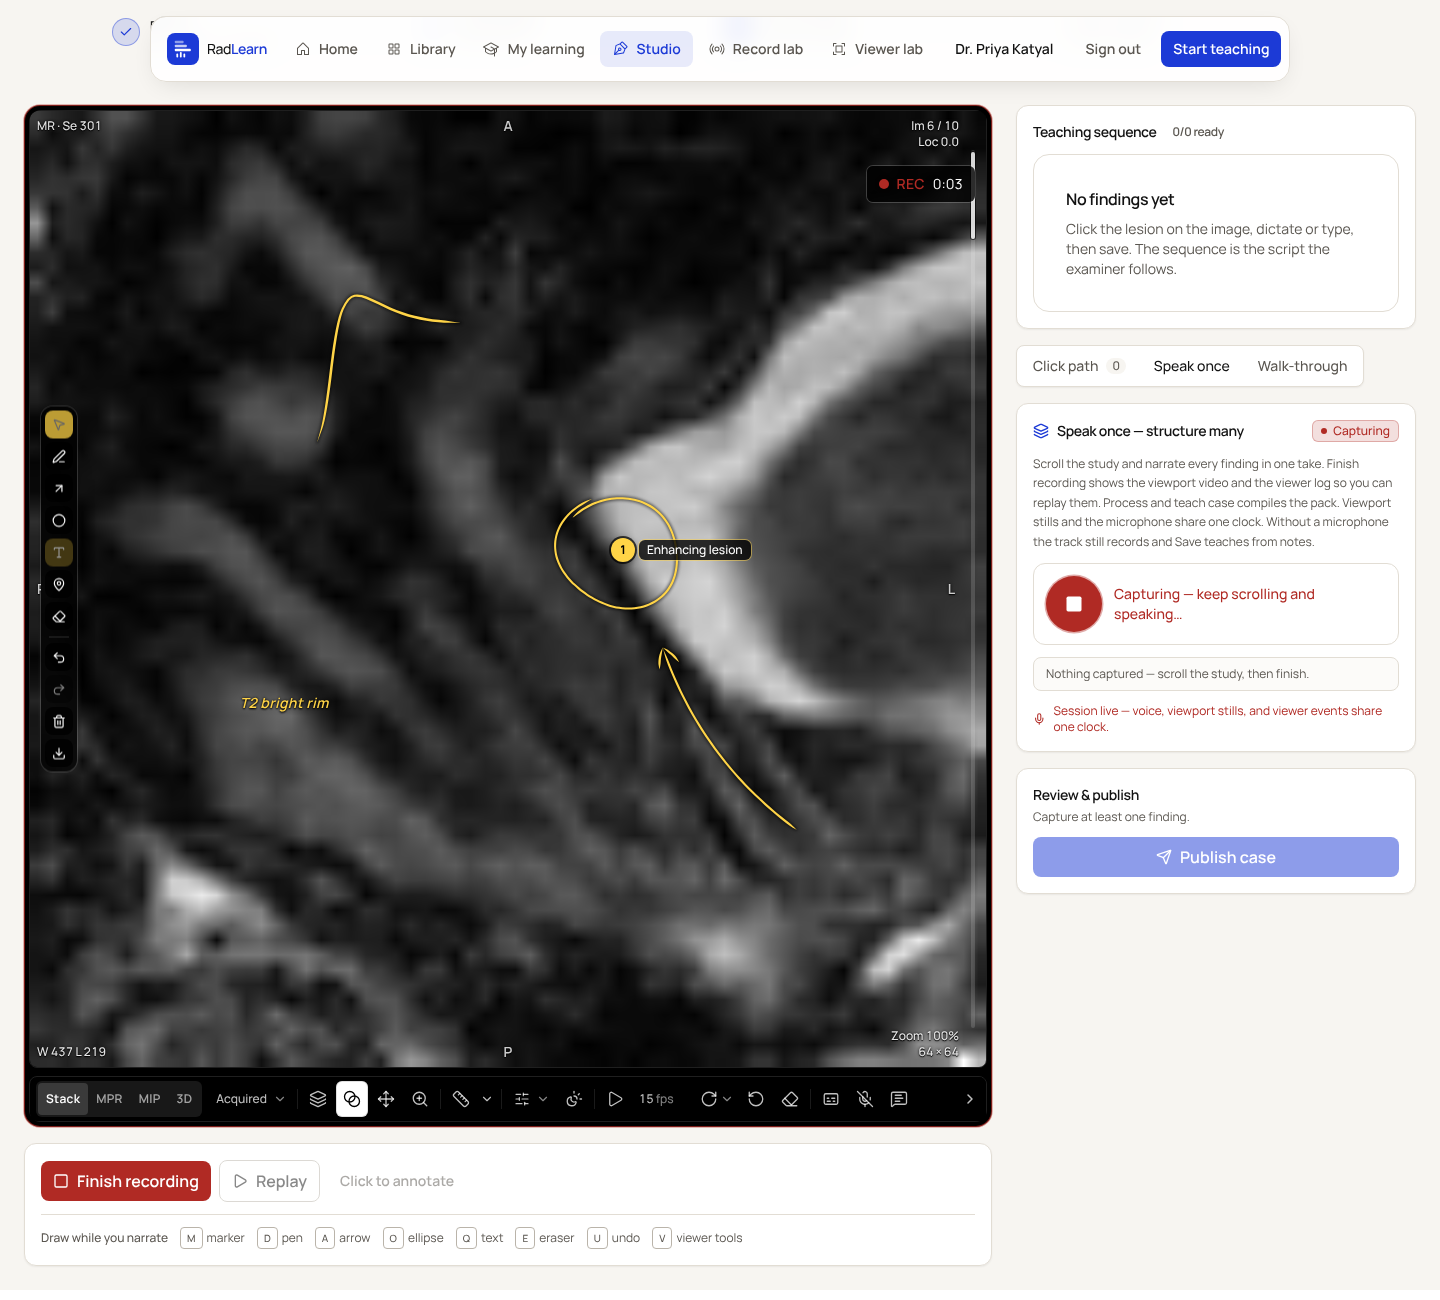
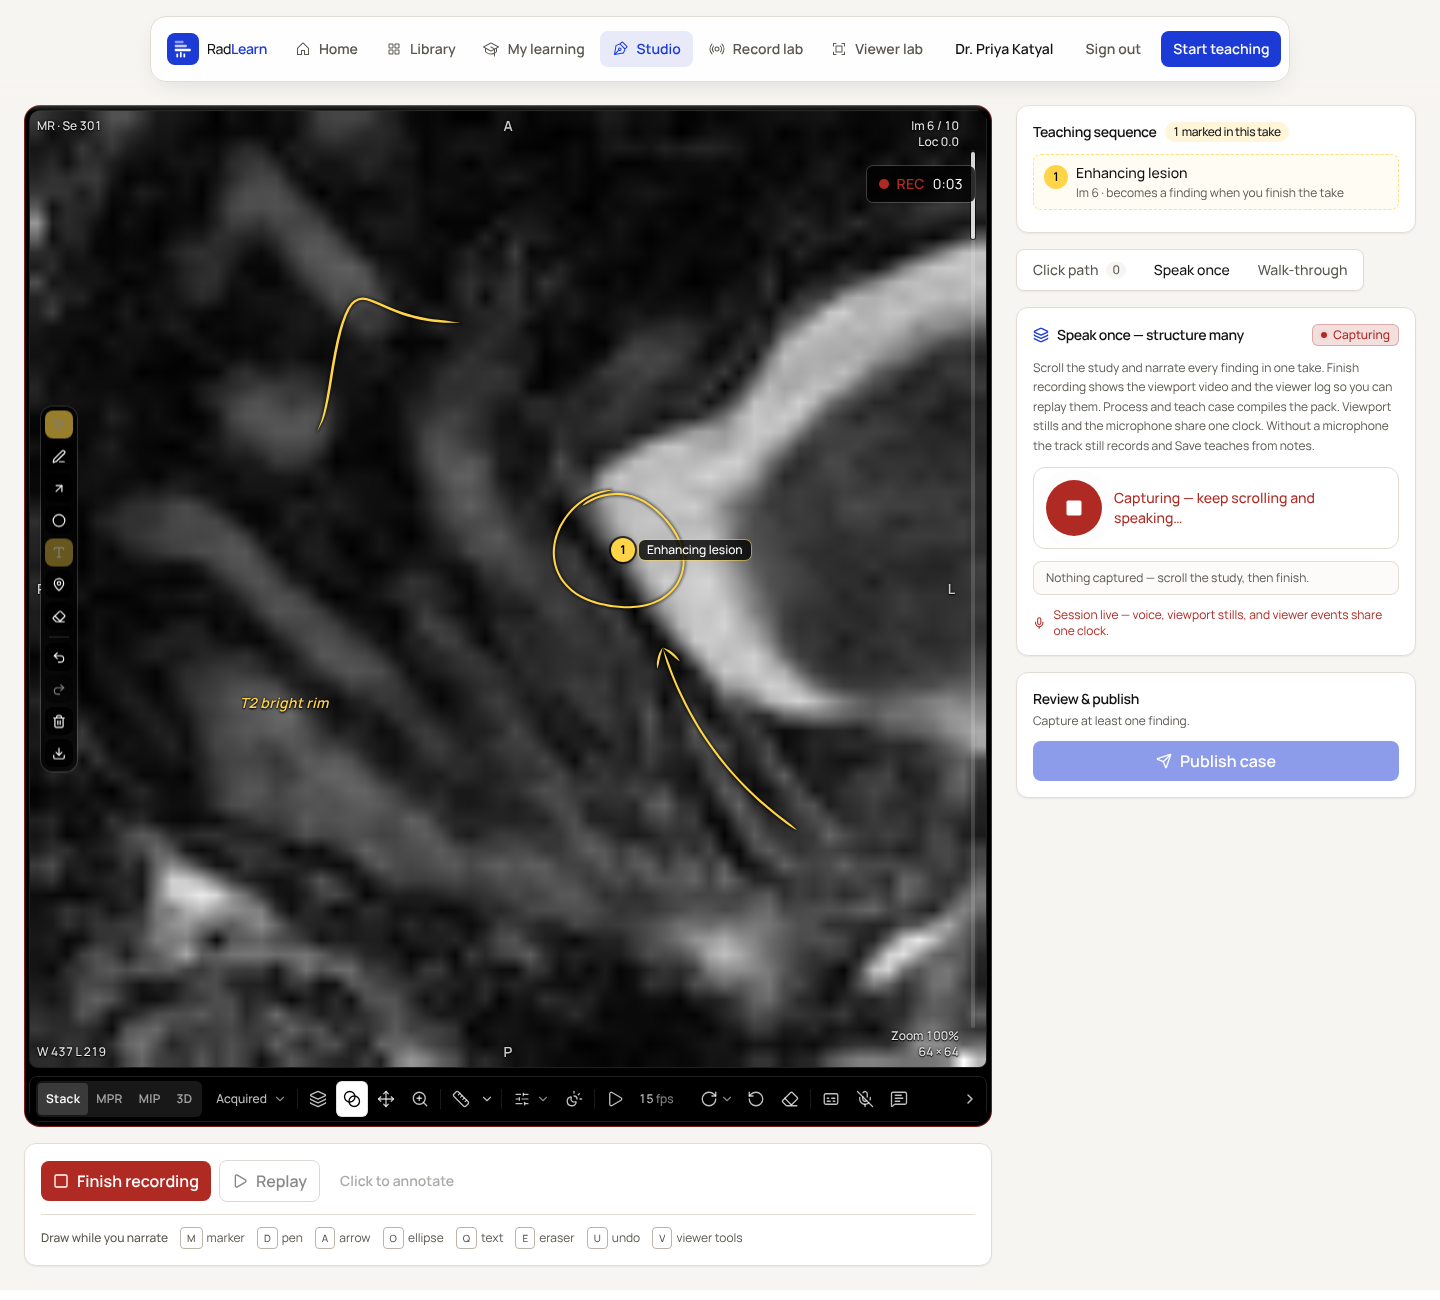
Studio review fixes: pending markers, nav scrim, CT screenshots.
- Teaching sequence lists numbered markers from the live take as pending
  ("1 · Left apical nodule · Im 7 · becomes a finding when you finish the
  take"), so it no longer reads "0/0 ready · No findings yet" under marker 1.
  A marker stops being pending once a saved finding sits on its slice and
  point (pendingSketchMarkers, unit-tested).
- The floating nav gets a page-coloured scrim, so scrolled content (the
  stepper's completed-step check) no longer peeks out above and left of it.
- New e2e on a real de-identified CT: LIDC-IDRI chest CT from the local
  archive, a fresh draft case, ellipse + arrow + marker on the readers'
  left apical nodule at Im 7 on lung windows. The take is not finished, so
  nothing is saved. Skipped when the archive is not running.
- Screenshots regenerated, including three from the CT.

Claude-Session: https://claude.ai/code/session_01RieAufcSAuUBWG5gk2qR6z

diff --git a/e2e/studio-sketch.spec.ts b/e2e/studio-sketch.spec.ts
@@ -111,6 +111,9 @@ test("teacher sketches while recording; ink stays on its pixels through zoom, sc
   await expect(marker).toHaveAttribute("data-number", "1");
   await expect(marker).toHaveAttribute("data-label", "Enhancing lesion");
   await expect(page.getByTestId("teacher-stroke")).toHaveCount(3);
+  // Review fix: the Teaching sequence lists the marker, not "No findings yet".
+  await expect(page.getByTestId("sequence-pending")).toContainText("Enhancing lesion");
+  await expect(page.getByText("No findings yet")).toHaveCount(0);
 
   // Q: a text note anchored on the image.
   await page.keyboard.press("q");
@@ -243,4 +246,134 @@ test("replay draws the teacher's ink back in time with the take", async ({ page 
   await shot(page, "studio-sketch-replay");
   await expect(page.getByTestId("teacher-marker")).toHaveCount(1, { timeout: 5000 });
   await expect(page.getByTestId("teacher-stroke").first()).toHaveAttribute("data-done", "true");
+});
+
+// ---------------------------------------------------------------------------
+// The same Studio on a real, de-identified CT: LIDC-IDRI chest CT (TCIA,
+// CC BY 3.0) served by scripts/serve_local_ct.py. The left apical nodule the
+// LIDC readers segmented is on stack index 6 at (0.680, 0.494). Skipped when
+// that archive is not running. A fresh draft case is created on the series so
+// the published demo case is never touched, and the take is not finished, so
+// nothing is saved.
+// ---------------------------------------------------------------------------
+
+const LIDC_STUDY = "1.3.6.1.4.1.14519.5.2.1.6279.6001.210460865401632134346677582159";
+const LIDC_SERIES = "1.3.6.1.4.1.14519.5.2.1.6279.6001.314917368146772872954571551463";
+const NODULE = { slice: 6, x: 0.68, y: 0.494 };
+
+/** Screen point for an image fraction on the fitted, square 512² CT. */
+async function imagePoint(page: Page, x: number, y: number) {
+  const box = await stageBox(page);
+  const side = Math.min(box.width, box.height);
+  const left = box.x + (box.width - side) / 2;
+  const top = box.y + (box.height - side) / 2;
+  return { x: left + side * x, y: top + side * y };
+}
+
+test("Studio on a de-identified CT: the marker is listed in the Teaching sequence and the nav has no stray badge", async ({ page }) => {
+  const archive = await page.request.get("http://127.0.0.1:8042/studies/study-lidc").catch(() => null);
+  test.skip(!archive?.ok(), "LIDC archive (scripts/serve_local_ct.py) is not running");
+
+  await page.setViewportSize({ width: 1440, height: 1300 });
+  await page.addInitScript(() => window.localStorage.setItem("radlearn-cookie-ack", "1"));
+  expect((await page.request.post("/api/auth/demo", { data: { role: "author" } })).ok()).toBeTruthy();
+  const made = await page.request.post("/api/admin/cases", {
+    data: {
+      title: "Studio CT e2e — LIDC chest CT",
+      modality: "CT",
+      patientId: "pat_lidc_nodule",
+      studies: [{ studyInstanceUID: LIDC_STUDY, modality: "CT", caseSeriesInstanceUIDs: [LIDC_SERIES], seriesInstanceUIDs: [LIDC_SERIES] }],
+    },
+  });
+  expect(made.ok()).toBeTruthy();
+  const caseId = ((await made.json()) as { case: { caseId: string } }).case.caseId;
+
+  await page.goto(`/studio/cases/${caseId}/record`);
+  await expect(page.getByTestId("sketch-palette")).toBeVisible({ timeout: 120_000 });
+  const startButton = page.getByRole("button", { name: "Start recording" }).first();
+  await expect(startButton).toBeEnabled({ timeout: 120_000 });
+  await expect(page.getByText("No findings yet")).toBeVisible();
+
+  // Seat the nodule slice from the stack scrollbar (Im 7 of 65), on lung windows.
+  await showStage(page);
+  const slider = page.getByRole("slider", { name: "Slice" });
+  await expect(slider).toHaveAttribute("aria-valuemax", "65", { timeout: 60_000 });
+  const track = (await slider.boundingBox())!;
+  await page.mouse.click(track.x + track.width / 2, track.y + track.height * ((NODULE.slice + 0.5) / 65));
+  // The thumb's grab height can land the click a slice off; step to it.
+  const want = NODULE.slice + 1;
+  const centre = await imagePoint(page, 0.5, 0.5);
+  for (let i = 0; i < 12; i++) {
+    const now = Number(await slider.getAttribute("aria-valuenow"));
+    if (now === want) break;
+    await page.mouse.move(centre.x, centre.y);
+    await page.mouse.wheel(0, now > want ? -100 : 100);
+    await page.waitForTimeout(250);
+  }
+  await expect(slider).toHaveAttribute("aria-valuenow", String(want));
+  // Lung window from the preset menu, by name (preset order varies by modality).
+  await page.getByRole("button", { name: /^Window presets/ }).click();
+  await page
+    .getByRole("menuitemradio", { name: /^Lung/ })
+    .or(page.getByRole("menuitem", { name: /^Lung/ }))
+    .first()
+    .click();
+  await expect(page.getByRole("button", { name: "Window presets, Lung" })).toBeVisible();
+
+  await startButton.click();
+  await expect(page.getByRole("button", { name: "Finish recording" })).toBeVisible();
+
+  // Ring the nodule, point at it, then M drops marker #1 on it.
+  await page.keyboard.press("o");
+  const a = await imagePoint(page, NODULE.x - 0.035, NODULE.y - 0.035);
+  const b = await imagePoint(page, NODULE.x + 0.035, NODULE.y + 0.035);
+  await page.mouse.move(a.x, a.y);
+  await page.mouse.down();
+  await page.mouse.move(b.x, b.y, { steps: 8 });
+  await page.mouse.up();
+  await page.keyboard.press("a");
+  const tail = await imagePoint(page, NODULE.x + 0.16, NODULE.y + 0.13);
+  const tip = await imagePoint(page, NODULE.x + 0.045, NODULE.y + 0.04);
+  await page.mouse.move(tail.x, tail.y);
+  await page.mouse.down();
+  await page.mouse.move(tip.x, tip.y, { steps: 6 });
+  await page.mouse.up();
+  await page.keyboard.press("v");
+  const at = await imagePoint(page, NODULE.x, NODULE.y);
+  await page.mouse.move(at.x, at.y);
+  await page.keyboard.press("m");
+  const popover = page.getByTestId("marker-label-popover");
+  await expect(popover).toBeVisible();
+  await popover.getByRole("textbox").fill("Left apical nodule");
+
+  // The Teaching sequence lists the marker as soon as it is dropped.
+  const pending = page.getByTestId("sequence-pending");
+  await expect(pending).toContainText("Finding 1");
+  await expect(page.getByText("No findings yet")).toHaveCount(0);
+  await shot(page, "studio-ct-marker-label");
+  await popover.getByRole("textbox").press("Enter");
+  await expect(page.getByTestId("teacher-marker")).toHaveAttribute("data-label", "Left apical nodule");
+  await expect(pending).toContainText("Left apical nodule");
+  await expect(pending).toContainText(`Im ${NODULE.slice + 1}`);
+  await expect(page.getByTestId("sequence-pending-count")).toHaveText("1 marked in this take");
+  await expect(page.getByText("0/0 ready")).toHaveCount(0);
+
+  // The marker is anchored on the nodule's slice and point.
+  const items = await page.evaluate((key) => JSON.parse(sessionStorage.getItem(key) ?? "[]"), `flowrad:studio-sketch:${caseId}`);
+  const mark = (items as Array<{ kind: string; image: { sliceIndex: number }; points: Array<{ x_pct: number; y_pct: number }> }>).find(
+    (item) => item.kind === "marker"
+  );
+  expect(mark?.image.sliceIndex).toBe(NODULE.slice);
+  expect(Math.abs((mark?.points[0]?.x_pct ?? 0) - NODULE.x)).toBeLessThan(0.02);
+  expect(Math.abs((mark?.points[0]?.y_pct ?? 0) - NODULE.y)).toBeLessThan(0.02);
+  await shot(page, "studio-ct-recording");
+
+  // Scrolled under the floating nav: the stepper must not peek out around it.
+  await expect(page.getByTestId("nav-scrim")).toBeAttached();
+  const scrim = await page.evaluate(() => {
+    const el = document.querySelector('[data-testid="nav-scrim"]') as HTMLElement | null;
+    return el ? getComputedStyle(el).backgroundImage : "";
+  });
+  expect(scrim).toContain("gradient");
+  if (shots) await page.screenshot({ path: `${shots}/studio-ct-nav.png`, clip: { x: 0, y: 0, width: 1440, height: 140 } });
 });

diff --git a/components/author/SequenceBoard.tsx b/components/author/SequenceBoard.tsx
@@ -22,6 +22,7 @@ import {
 } from "@/components/ui";
 import { cn } from "@/components/ui/cn";
 import { displaySliceNumber } from "@/lib/findingDisplayState";
+import type { PendingSketchMarker } from "@/lib/teacherSketch";
 import type { Finding } from "@/lib/types";
 import {
   casePublishReadiness,
@@ -44,8 +45,14 @@ export function SequenceBoard({
   onPinCompare,
   onClearCompare,
   pinningId,
+  pending = [],
 }: {
   findings: Finding[];
+  /**
+   * Numbered markers dropped in the live take that are not findings yet.
+   * Listed so the board never reads "No findings yet" under a marker.
+   */
+  pending?: readonly PendingSketchMarker[];
   activeId?: string | null;
   busy?: boolean;
   onSelect: (finding: Finding) => void;
@@ -65,18 +72,57 @@ export function SequenceBoard({
       <div className="mb-3 flex items-center justify-between gap-2">
         <h2 className="flex items-center gap-2 text-sm font-semibold text-primary">
           Teaching sequence
-          <span className="rounded-full bg-elevated px-2 py-0.5 text-xs tabular-nums text-muted">
-            {readiness.examReady}/{readiness.total} ready
-          </span>
+          {/* "0/0 ready" beside a marker reads as "nothing here": show the
+              count once a finding is saved. */}
+          {(readiness.total > 0 || pending.length === 0) && (
+            <span className="rounded-full bg-elevated px-2 py-0.5 text-xs tabular-nums text-muted">
+              {readiness.examReady}/{readiness.total} ready
+            </span>
+          )}
+          {pending.length > 0 && (
+            <span
+              className="rounded-full bg-ink/20 px-2 py-0.5 text-xs font-medium tabular-nums text-primary"
+              data-testid="sequence-pending-count"
+            >
+              {pending.length} marked in this take
+            </span>
+          )}
         </h2>
       </div>
 
-      {findings.length === 0 ? (
+      {pending.length > 0 && (
+        <ol className="mb-1.5 flex flex-col gap-1.5" aria-label="Markers in this take" data-testid="sequence-pending">
+          {pending.map((p) => (
+            <li
+              key={p.id}
+              className="flex items-start gap-2 rounded-lg border border-dashed border-ink/70 bg-ink/[0.06] px-2.5 py-2"
+            >
+              <span
+                className="mt-0.5 flex h-6 w-6 shrink-0 items-center justify-center rounded-full bg-ink text-xs font-semibold tabular-nums text-black"
+                aria-hidden="true"
+              >
+                {p.number}
+              </span>
+              <span className="min-w-0 flex-1">
+                <span className="block truncate text-sm font-medium text-primary">
+                  <span className="sr-only">Marker {p.number}: </span>
+                  {p.label}
+                </span>
+                <span className="mt-0.5 block text-xs text-muted">
+                  Im {displaySliceNumber(p.sliceIndex)} · becomes a finding when you finish the take
+                </span>
+              </span>
+            </li>
+          ))}
+        </ol>
+      )}
+
+      {findings.length === 0 && pending.length === 0 ? (
         <EmptyState
           title="No findings yet"
           description="Click the lesion on the image, dictate or type, then save. The sequence is the script the examiner follows."
         />
-      ) : (
+      ) : findings.length === 0 ? null : (
         <ol className="flex flex-col gap-1.5">
           {findings.map((f, i) => {
             const gaps = findingGaps(f);

diff --git a/lib/teacherSketch.ts b/lib/teacherSketch.ts
@@ -209,6 +209,51 @@ export function defaultMarkerLabel(number: number): string {
   return `Finding ${number}`;
 }
 
+/** A numbered marker in the live take that is not a saved finding yet. */
+export interface PendingSketchMarker {
+  id: string;
+  number: number;
+  label: string;
+  /** 0-based stack index the marker sits on. */
+  sliceIndex: number;
+}
+
+/**
+ * Markers the teacher dropped that no saved finding carries yet. A marker
+ * becomes a finding when the take is finished and processed (the compile
+ * lands the finding on the marker's slice and point), so a finding on the
+ * same slice within half a percent of the image is the same mark. The
+ * Teaching sequence lists the rest as pending so it never reads "No findings
+ * yet" while a numbered marker is on the image.
+ */
+export function pendingSketchMarkers(
+  items: readonly TeacherSketchItem[],
+  findings: readonly { sliceIndex?: number; marker?: { x_pct: number; y_pct: number } | null }[]
+): PendingSketchMarker[] {
+  const out: PendingSketchMarker[] = [];
+  for (const item of items) {
+    if (item.kind !== "marker") continue;
+    const at = item.points[0];
+    if (!at) continue;
+    const saved = findings.some(
+      (f) =>
+        f.marker &&
+        f.sliceIndex === item.image.sliceIndex &&
+        Math.abs(f.marker.x_pct - at.x_pct) <= 0.005 &&
+        Math.abs(f.marker.y_pct - at.y_pct) <= 0.005
+    );
+    if (saved) continue;
+    const number = item.number ?? out.length + 1;
+    out.push({
+      id: item.id,
+      number,
+      label: item.text?.trim() || defaultMarkerLabel(number),
+      sliceIndex: item.image.sliceIndex,
+    });
+  }
+  return out.sort((a, b) => a.number - b.number);
+}
+
 // ---------------------------------------------------------------------------
 // Timeline (progressive replay)
 // ---------------------------------------------------------------------------

diff --git a/lib/teacherSketch.test.ts b/lib/teacherSketch.test.ts
@@ -35,6 +35,7 @@ import {
   teacherMarkerInWindow,
   undoSketch,
   withSketchAnnotations,
+  pendingSketchMarkers,
 } from "./teacherSketch.ts";
 import { resolveStudioHotkey, STUDENT_SESSION_KEYS, STUDIO_MARKER_KEY, STUDIO_TOOL_KEYS } from "./studioHotkeys.ts";
 import { resolveViewerHotkey } from "./viewerHotkeys.ts";
@@ -420,4 +421,23 @@ test("Studio sketch keys never reuse a student-session key, and Alt+X stays with
   // preset menu's fourth entry), as on the desktop. Pan stays on the toolbar.
   assert.equal(resolveStudioHotkey({ key: "4" }), null);
   assert.deepEqual(resolveViewerHotkey({ key: "4" }), { type: "preset", ordinal: 4 });
+});
+
+test("a marker in the live take is listed as pending until a saved finding carries it", () => {
+  const items = [marker("m2", 2, 0.3, 0.4, 8), marker("m1", 1), { ...marker("m3", 3), kind: "pen" as const }];
+  items[1] = { ...items[1]!, text: "Enhancing lesion" };
+  // Nothing saved yet: both markers are pending, numbered in order, pens ignored.
+  const pending = pendingSketchMarkers(items, []);
+  assert.deepEqual(
+    pending.map((p) => [p.number, p.label, p.sliceIndex]),
+    [
+      [1, "Enhancing lesion", 6],
+      [2, "Finding 2", 8],
+    ]
+  );
+  // The compile lands finding 1 on marker 1's slice and point: no longer pending.
+  const landed = pendingSketchMarkers(items, [{ sliceIndex: 6, marker: { x_pct: 0.62, y_pct: 0.37 } }]);
+  assert.deepEqual(landed.map((p) => p.id), ["m2"]);
+  // Same point on another slice is a different mark.
+  assert.equal(pendingSketchMarkers(items, [{ sliceIndex: 5, marker: { x_pct: 0.62, y_pct: 0.37 } }]).length, 2);
 });

diff --git a/components/AppShell.tsx b/components/AppShell.tsx
@@ -283,7 +283,20 @@ export function AppShell({
       <div className={cn("flex min-h-dvh flex-col bg-canvas", (readingRoom || freeViewer) && "bg-imaging")}>
         {!hideChrome && (
           <header className="pointer-events-none fixed inset-x-0 top-4 z-40 px-4">
-            <div className="pointer-events-auto mx-auto flex w-fit max-w-full items-center gap-2 rounded-2xl border border-subtle bg-surface/90 p-2 shadow-md backdrop-blur-md">
+            {/* Scrolled content fades out before it reaches the floating nav,
+                so nothing (a stepper check, a heading's first letter) peeks
+                out in the gap around the pill. Pointer-transparent. */}
+            <div
+              aria-hidden="true"
+              data-testid="nav-scrim"
+              className={cn(
+                "absolute inset-x-0 -top-4 h-28 bg-gradient-to-b via-70%",
+                readingRoom || freeViewer
+                  ? "from-imaging via-imaging to-transparent"
+                  : "from-canvas via-canvas to-transparent"
+              )}
+            />
+            <div className="pointer-events-auto relative mx-auto flex w-fit max-w-full items-center gap-2 rounded-2xl border border-subtle bg-surface/90 p-2 shadow-md backdrop-blur-md">
               <Link
                 href="/"
                 className="group flex items-center gap-2 rounded-lg px-2 py-2 focus-visible:outline-none focus-visible:ring-2 focus-visible:ring-accent"

diff --git a/components/author/RecordingStudio.tsx b/components/author/RecordingStudio.tsx
@@ -70,6 +70,7 @@ import {
   type SketchExportFormat,
 } from "@/components/author/sketch/SketchToolPalette";
 import { useTeacherSketch } from "@/components/author/sketch/useTeacherSketch";
+import { pendingSketchMarkers } from "@/lib/teacherSketch";
 import { resolveStudioHotkey } from "@/lib/studioHotkeys";
 import { isTextTarget } from "@/lib/viewerHotkeys";
 import { useRecordReplay } from "@/components/record/useRecordReplay";
@@ -233,6 +234,8 @@ export function RecordingStudio({
   // A take starts from what is already drawn: snapshot it as the take's first
   // sketch op so replay and the compile see the same ink the teacher saw.
   const { snapshot: sketchSnapshot, endReplay: endSketchReplay, items: sketchItems } = sketch;
+  // Markers on the image that no saved finding carries yet (lib/teacherSketch).
+  const pendingMarkers = useMemo(() => pendingSketchMarkers(sketchItems, findings), [sketchItems, findings]);
   const sketchItemsRef = useRef(sketchItems);
   sketchItemsRef.current = sketchItems;
   useEffect(() => {
@@ -1294,6 +1297,7 @@ export function RecordingStudio({
         <div className="flex min-w-0 flex-col gap-4">
           <SequenceBoard
             findings={findings}
+            pending={pendingMarkers}
             activeId={focusedFindingId}
             busy={rr.phase !== "idle"}
             onSelect={(f) => void focusFinding(f)}
